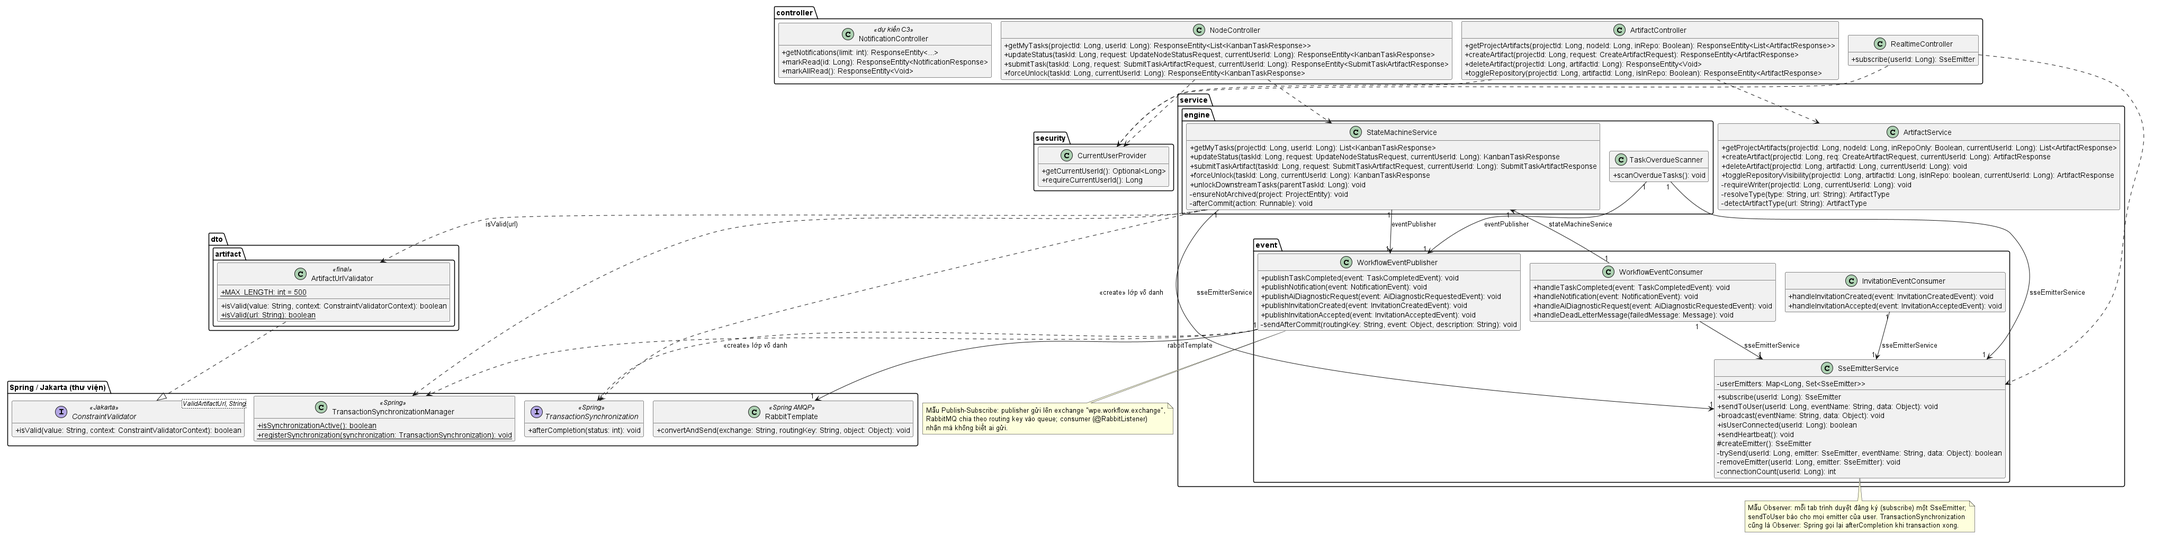
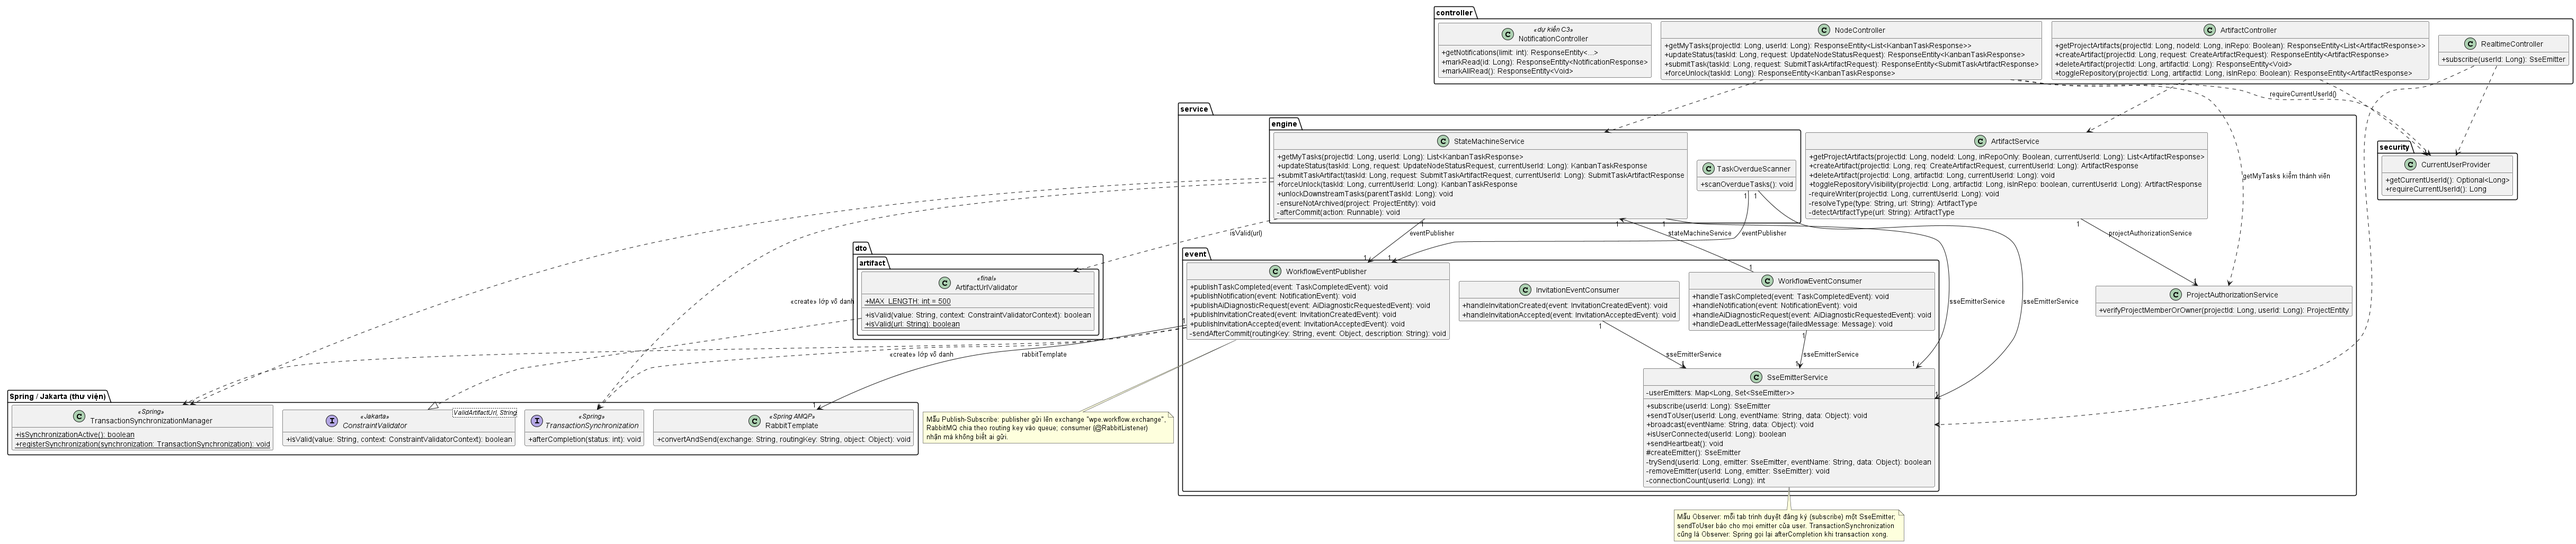
docs(C8): sua theo review cua D sau #56 (class NodeController, so dong nhat-quan, muc 5)

diff --git a/docs/tasks/C-thuc-thi/C8-ooad-thiet-ke.md b/docs/tasks/C-thuc-thi/C8-ooad-thiet-ke.md
@@ -91,6 +91,11 @@ Chế độ sprint (12/11/2026 tối): Claude vẽ đủ 6 sản phẩm từ cod
 - Ảnh rộng hơn 4096 px bị PlantUML cắt (`seq-nop-bai` rộng 4098 px) → render với `-DPLANTUML_LIMIT_SIZE=16384`.
 - **Lỗ hổng tìm thấy khi vẽ:** `NodeController` nhận `?currentUserId=` và mặc định user 2 khi không đăng nhập → ai cũng tự xưng Owner để duyệt bài được. Cùng kiểu D báo ở #49. Đã vá ở PR #56 (người làm yêu cầu). Ghi ở nhat-quan mục 5.
 
+**Sửa theo review của D ở #58 (13/11/2026), sau khi #56 merge:**
+1. `class-thuc-thi.puml`: `NodeController.updateStatus / submitTask / forceUnlock` bỏ tham số `currentUserId`; thêm lớp `ProjectAuthorizationService` (`verifyProjectMemberOrOwner`), `NodeController ..> ProjectAuthorizationService` (getMyTasks kiểm thành viên) và `ArtifactService --> ProjectAuthorizationService`. Xuất lại `C-class-thuc-thi.png`, `C-class-thuc-thi-du-lieu.png`.
+2. `nhat-quan.md`: số dòng `NodeController` theo main sau #56 (đã tự đếm lại, khớp số D đưa): `43–48 → 54–59`, `55 → 64`, `56 → 65`, `59–64 → 68–73`, `71 → 78`, `72 → 79`.
+3. `nhat-quan.md` mục 5: tiêu đề còn "(chưa sửa…)" nên đọc như chưa vá; đổi tiêu đề và ghi trạng thái từng ý (ý 3: đã vá ở #56, kèm lưu ý chế độ dev vẫn coi request không header là user 2).
+
 **Render:** `java -DPLANTUML_LIMIT_SIZE=16384 -jar ~/.vscode/extensions/jebbs.plantuml-2.18.1/plantuml.jar -charset UTF-8 -tpng`. Đã mở xem cả 6 ảnh: đủ chữ, không lỗi. PNG: `docs/ooad/png/C-state-task.png`, `C-seq-duyet-task.png`, `C-seq-nop-bai.png`, `C-comm-nop-bai.png`, `C-class-thuc-thi.png`, `C-class-thuc-thi-du-lieu.png`.
 
 **Tự chấm theo cẩm nang mục 3:**
